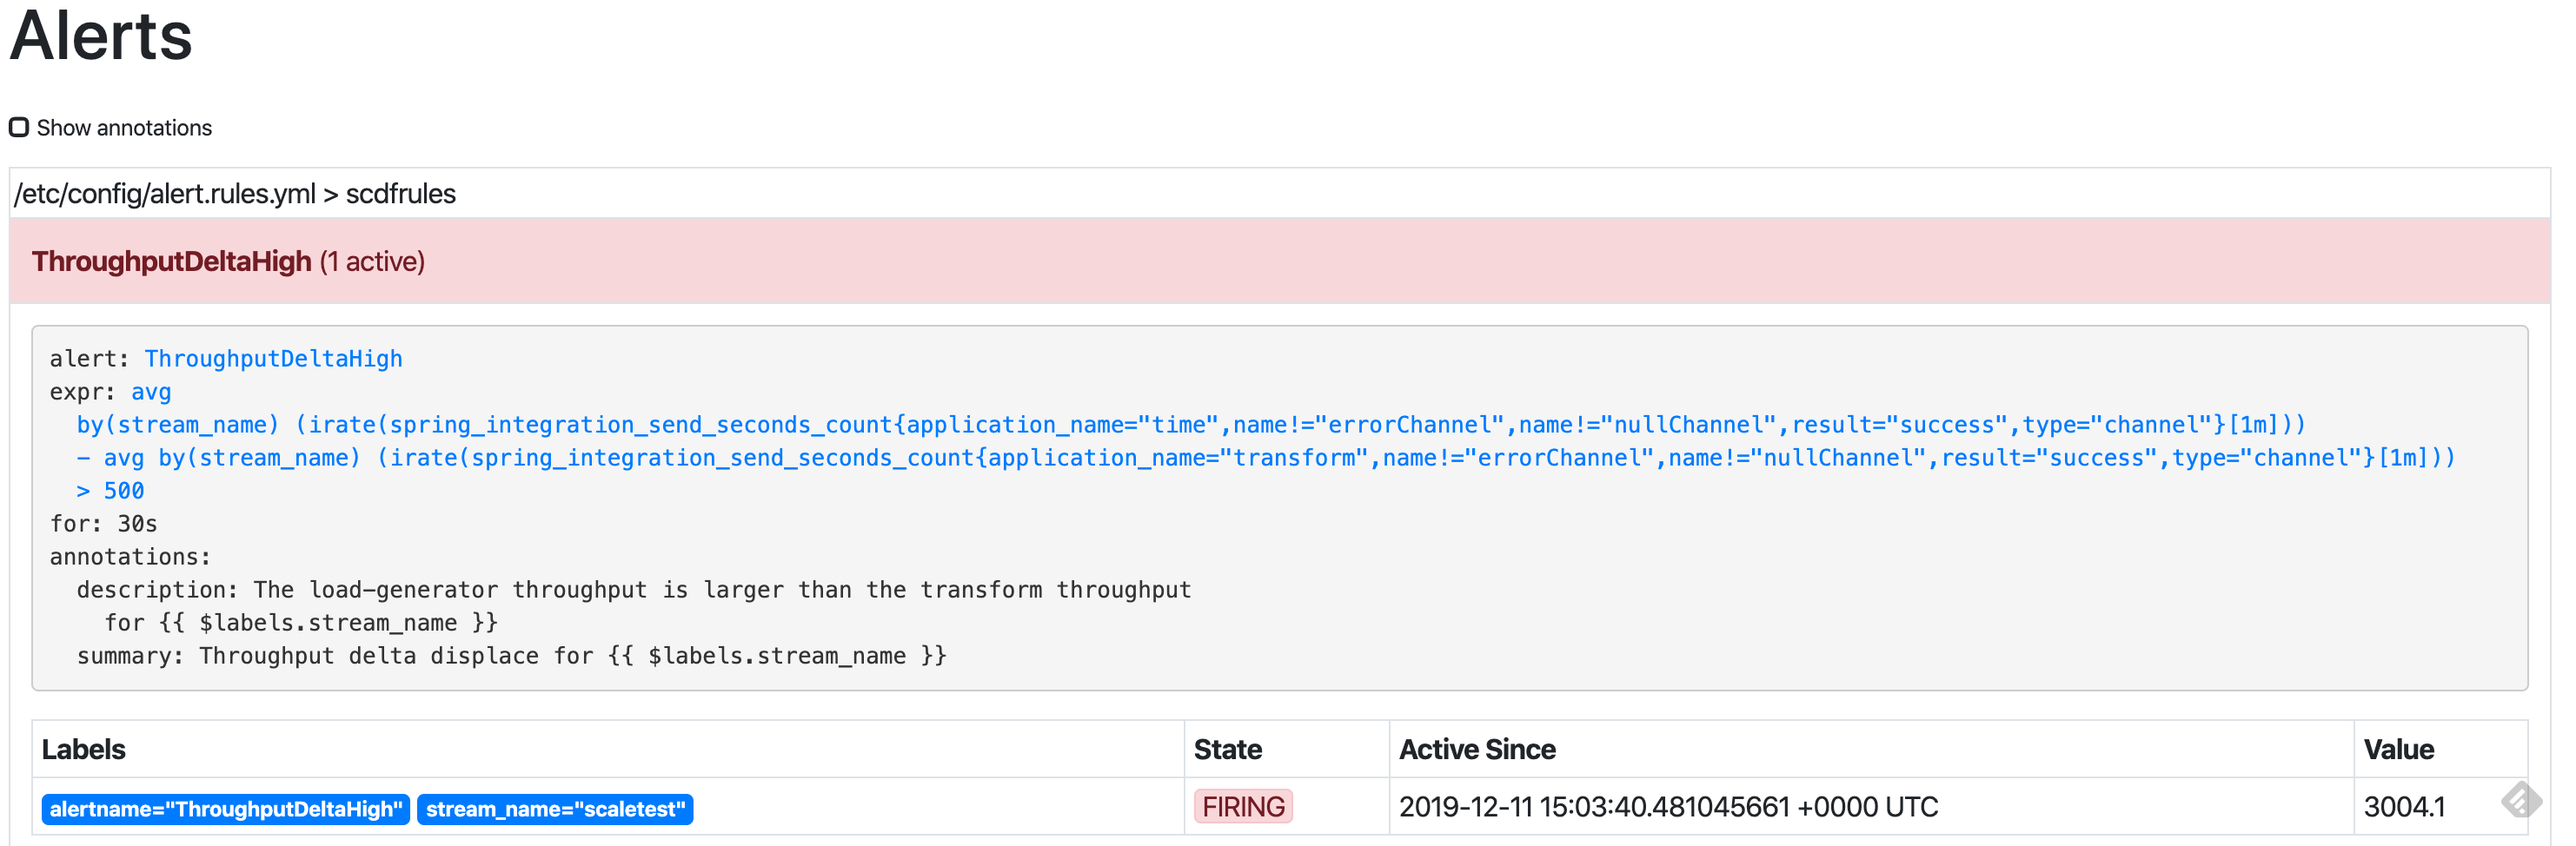
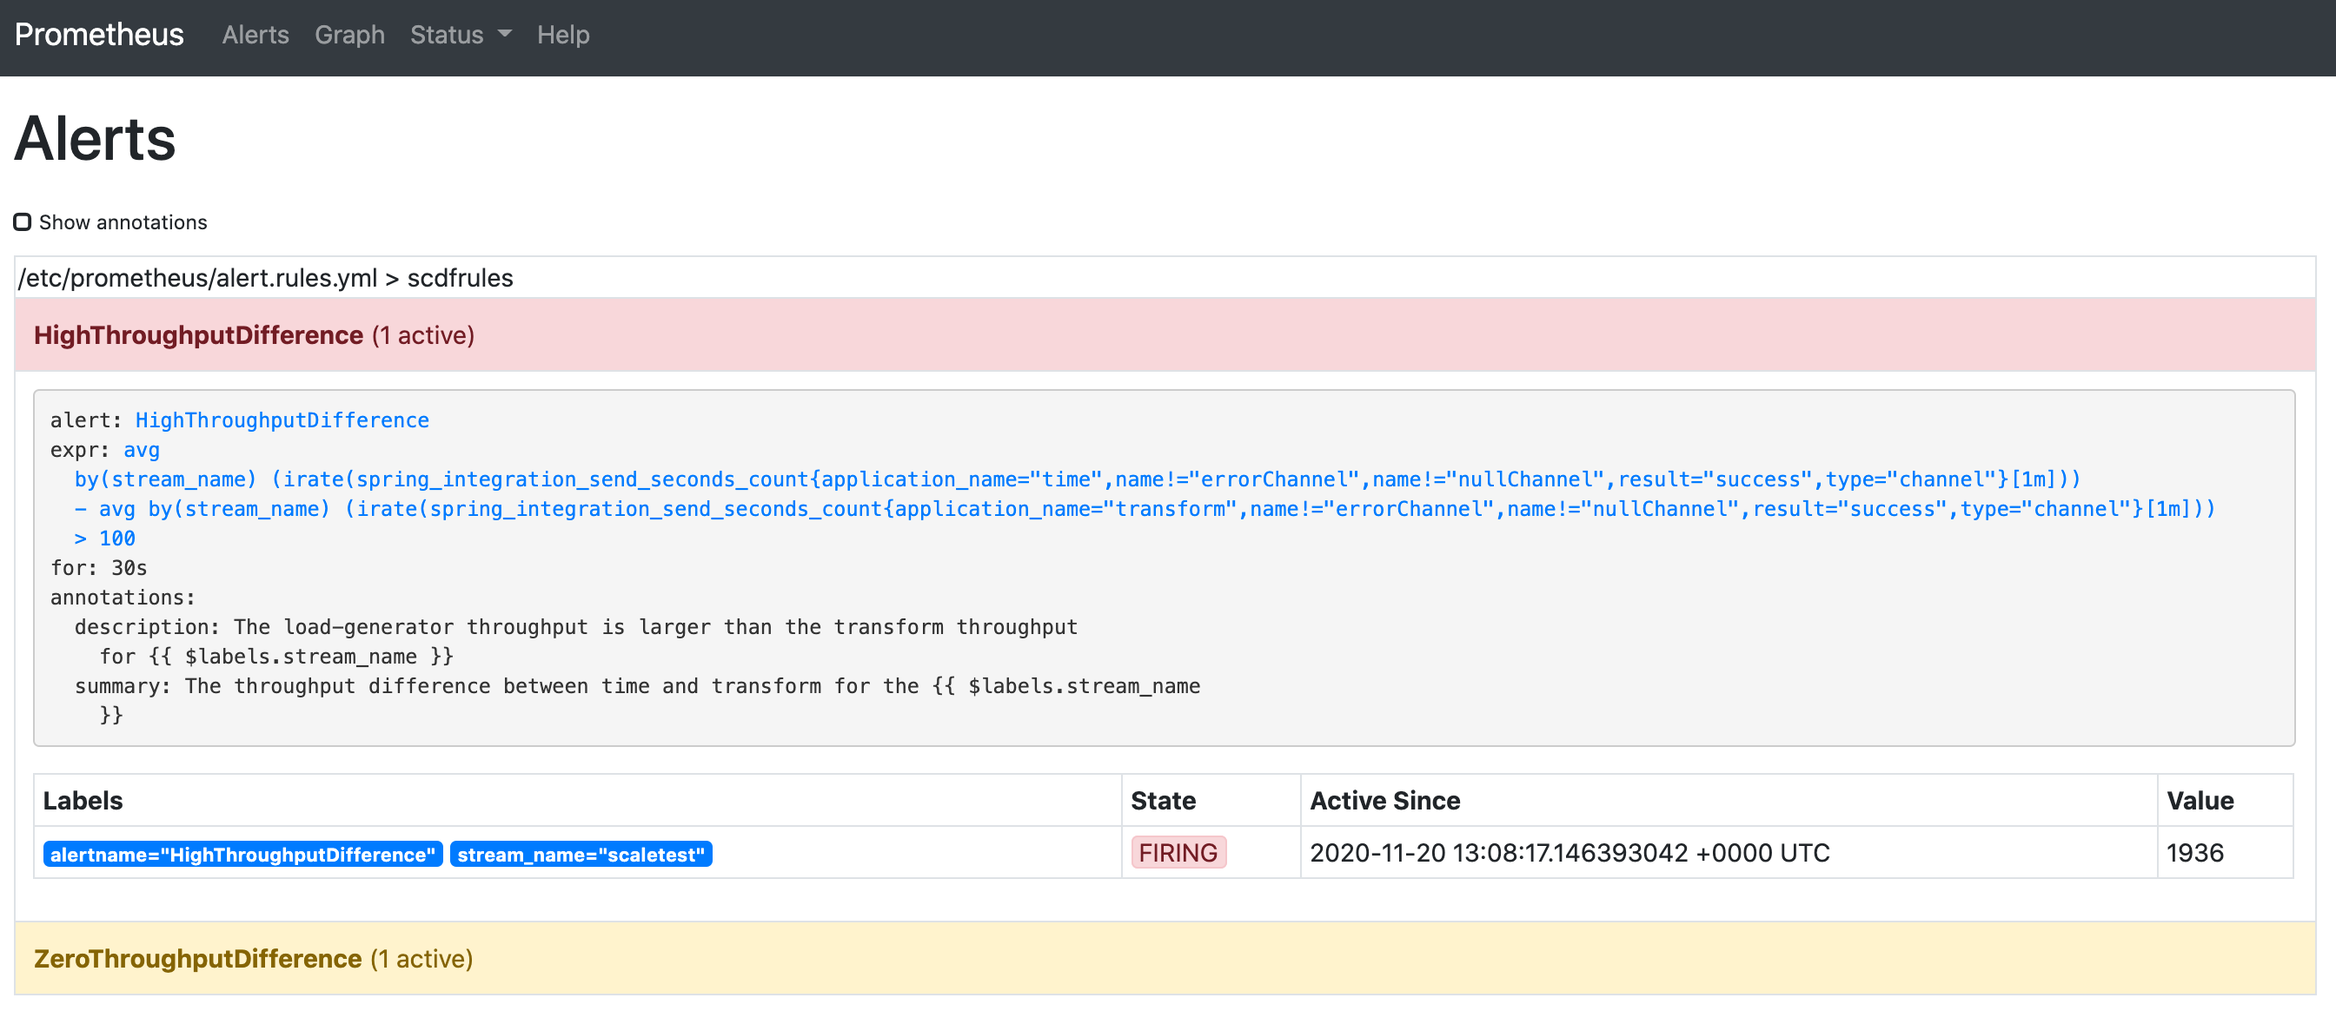
Update scale recipes images
Part of https://github.com/spring-io/dataflow.spring.io/issues/312

diff --git a/content/documentation/pages/6-recipes/6-scaling/2-autoscaling.md b/content/documentation/pages/6-recipes/6-scaling/2-autoscaling.md
@@ -106,6 +106,8 @@ The high CPU requirements due to the multiple app instances would make it diffic
   kubectl delete pods -l app=prometheus
   ```
 
+  Replace `my-release-prometheus-server` with your current prometheus cm. Use `kubectl get cm` to list your configurations.
+
 <!--For Helm installation-->
 
 - Follow the [Helm](%currentPath%/installation/kubernetes/helm/) installation instructions to setup Spring Cloud Data Flow with Kafka broker. You can use `features.monitoring.enabled=true` with at least `10Gi` storage space:
@@ -160,7 +162,7 @@ The `producer.partitionKeyExpression=payload` property configures time’s outpu
 The `spring.cloud.stream.kafka.binder.autoAddPartitions` deployment property instructs the Kafka binder to create new partitions when required. This is required if the topic is not already over-partitioned.
 The `spring.cloud.stream.kafka.binder.minPartitionCount` property sets the minimum number of partitions that the Kafka binder configures on the topic, which is where the transform-processor is subscribing for new data.
 
-![SCDF autoscaling stream deploying](images/scdf-autoscaling-stream-deploying.png)
+![SCDF autoscaling stream deploying](images/SCDF-autoscaling-stream-deploying.png)
 
 Use the SCDF's built-in Grafana dashboard to review the [stream application's throughput and the other application metrics](%currentPath%/feature-guides/streams/monitoring/#prometheus-1):
 
@@ -178,7 +180,7 @@ stream update --name scaletest --properties "app.time.trigger.time-unit=MICROSEC
 ```
 
 The `time` app is re-deployed with the new time-unit property:
-![SCDF autoscaling increase load](images/scdf-autoscaling-increase-load.png)
+![SCDF autoscaling increase load](images/SCDF-autoscaling-increase-load.png)
 
 Now `time` source emits messages with a rate of `~5000 msg/s`. The `transform` processor, though, is capped at around `1000 msg/s` and that in turn, it halts the throughput of the entire stream to a certain level. This is an indicator that the `transform` has become the bottleneck.
 
@@ -186,15 +188,15 @@ Now `time` source emits messages with a rate of `~5000 msg/s`. The `transform` p
 
 The `HighThroughputDifference` Prometheus alert rule detects the rate discrepancy and fires a scale-out alert:
 
-![SCDF autoscaling scaleout alert](images/scdf-autoscaling-scaleout-alert.png)
+![SCDF autoscaling scaleout alert](images/SCDF-autoscaling-scaleout-alert.png)
 
 in result 3 additional transform instances are added:
 
-![SCDF autoscaling adding 3 instances](images/scdf-autoscaling-adding-3-instances.png)
+![SCDF autoscaling adding 3 instances](images/SCDF-autoscaling-adding-4-instances.png)
 
 with the help of the additional instances of the `log` sink the entire data pipeline catches up to match with the `time` source's production rate:
 
-![SCDF autoscaling stream catches up](images/scdf-autoscaling-stream-catchup.png)
+![SCDF autoscaling stream catches up](images/SCDF-autoscaling-stream-catchup.png)
 
 ### Reduce data pipeline load
 
@@ -209,6 +211,4 @@ Eventually the rate difference becomes zero and the `ZeroThroughputDifference` a
 
 ![SCDF autoscaling scale-in alert](images/scdf-autoscaling-scale-in-alert.png)
 
-With a single `transform` instance the throughput of the entire data pipeline is normalized back to `~1 msg/s` :
-
-![SCDF autoscaling afters scale-in](images/scdf-autoscale-after-scale-in.png)
+With a single `transform` instance the throughput of the entire data pipeline is normalized back to `~1 msg/s`.

diff --git a/content/documentation/pages/6-recipes/6-scaling/1-manual-scaling.md b/content/documentation/pages/6-recipes/6-scaling/1-manual-scaling.md
@@ -55,7 +55,9 @@ The `spring.cloud.stream.kafka.binder.autoAddPartitions` deployment property ins
 The `spring.cloud.stream.kafka.binder.minPartitionCount` property sets the minimum number of partitions that the Kafka binder configures on the topic, which is where the transform-processor is subscribing for new data.
 
 Once the `scaletest` stream is deployed you should see:
-![SCDF manual scaling scaletest deployed](images/scdf-scale-manual-scaletest-deployed.png)
+![SCDF manual scaling non-scaled scaletest deployed](images/SCDF-scale-manual-scaletest-non-scaled-stream-deployed.png)
+![SCDF manual scaling scaletest deployed](images/SCDF-scale-manual-scaletest-non-scaled-apps-deployed.png)
+
 Singe application instances for each application.
 
 Use the SCDF's built-in Grafana dashboard to review the [stream application's throughput and the other application metrics](%currentPath%/feature-guides/streams/monitoring/#prometheus-1):
@@ -87,7 +89,8 @@ stream scale app instances --name scaletest --applicationName transform --count 
 
 As a result of the previous command, 3 additional transform instances are deployed:
 
-![SCDF manual scaling scaletest deployed after scale out](images/scdf-scale-manual-scaletest-deployed-afer-scaleout.png)
+![SCDF manual scaling scaletest deployed after scale out](images/SCDF-scale-manual-scaletest-scaled-stream-deployed.png)
+![SCDF manual scaling scaletest deployed after scale out](images/SCDF-scale-manual-scaletest-scaled-apps-deployed.png)
 
 With the help of the additional instances of the `transform` processor, the entire data pipeline catches up to match with the `time` source's production rate.
 
